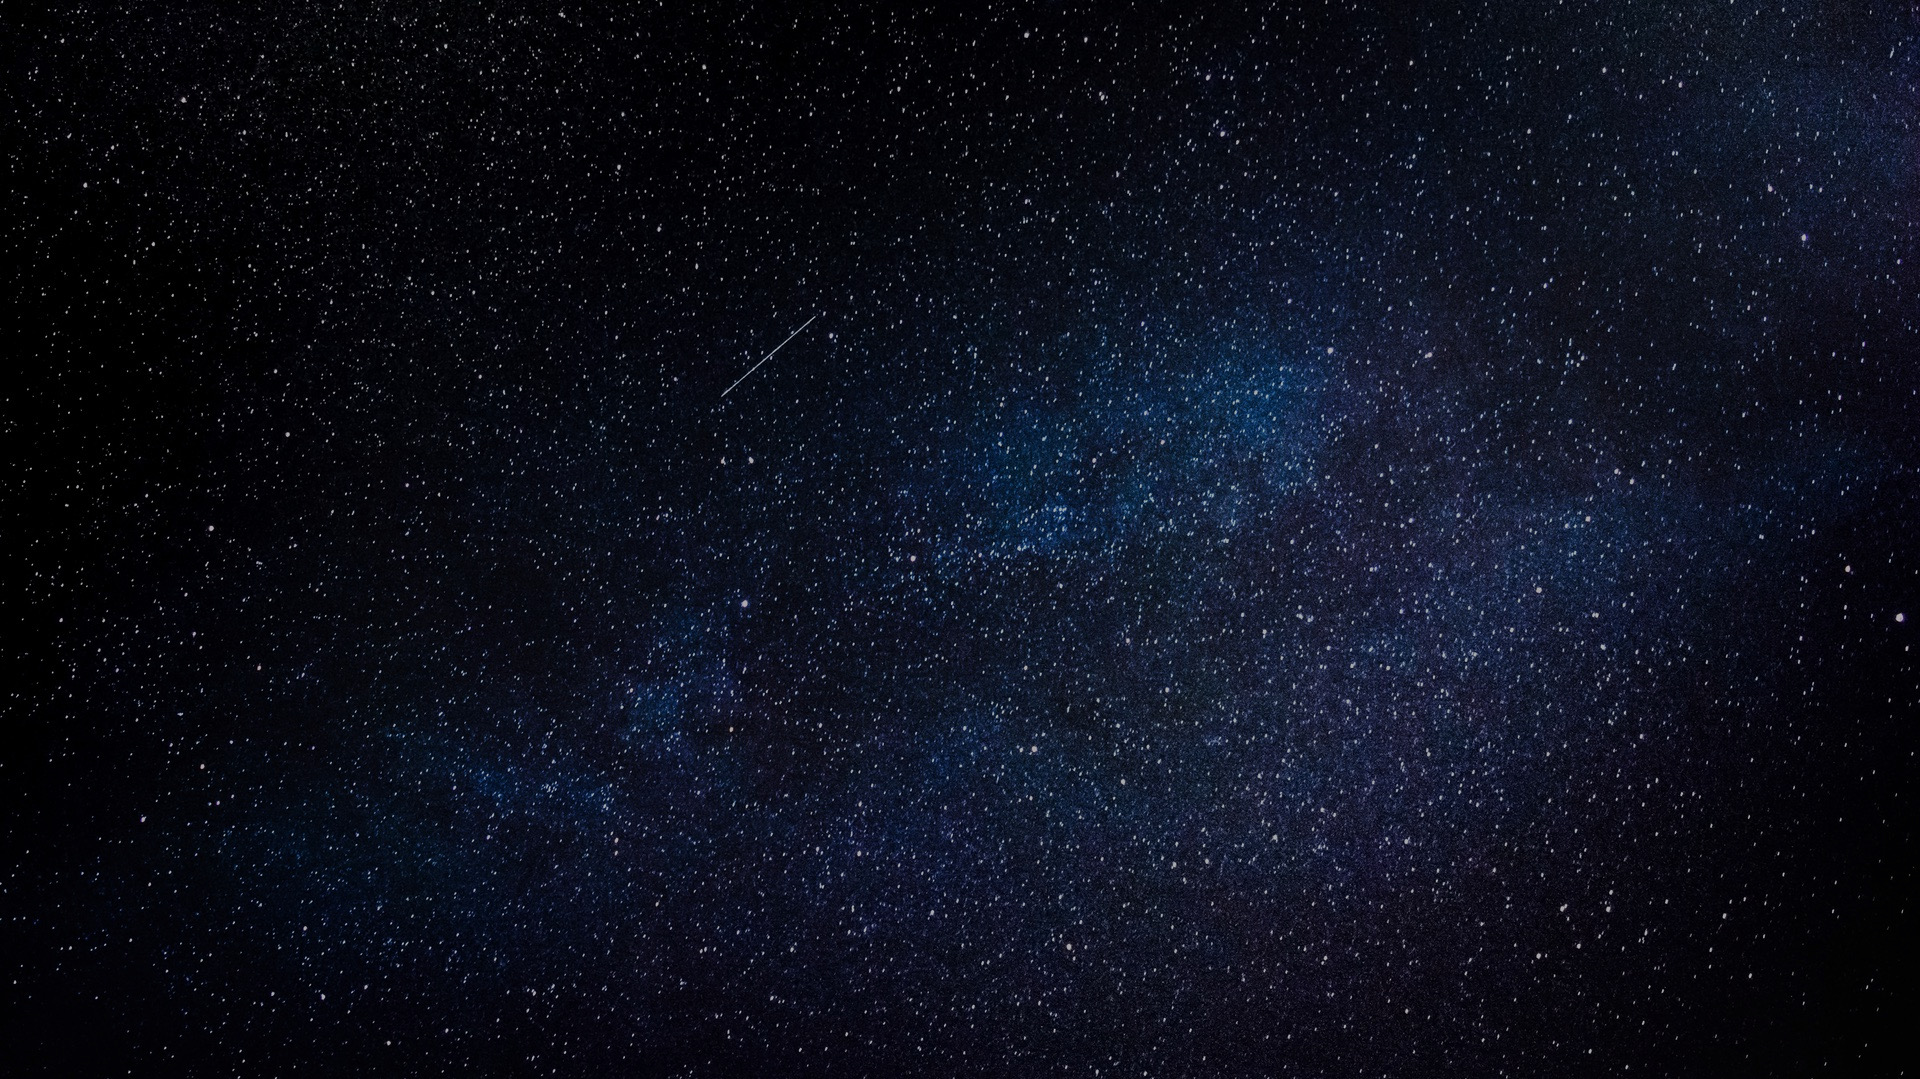
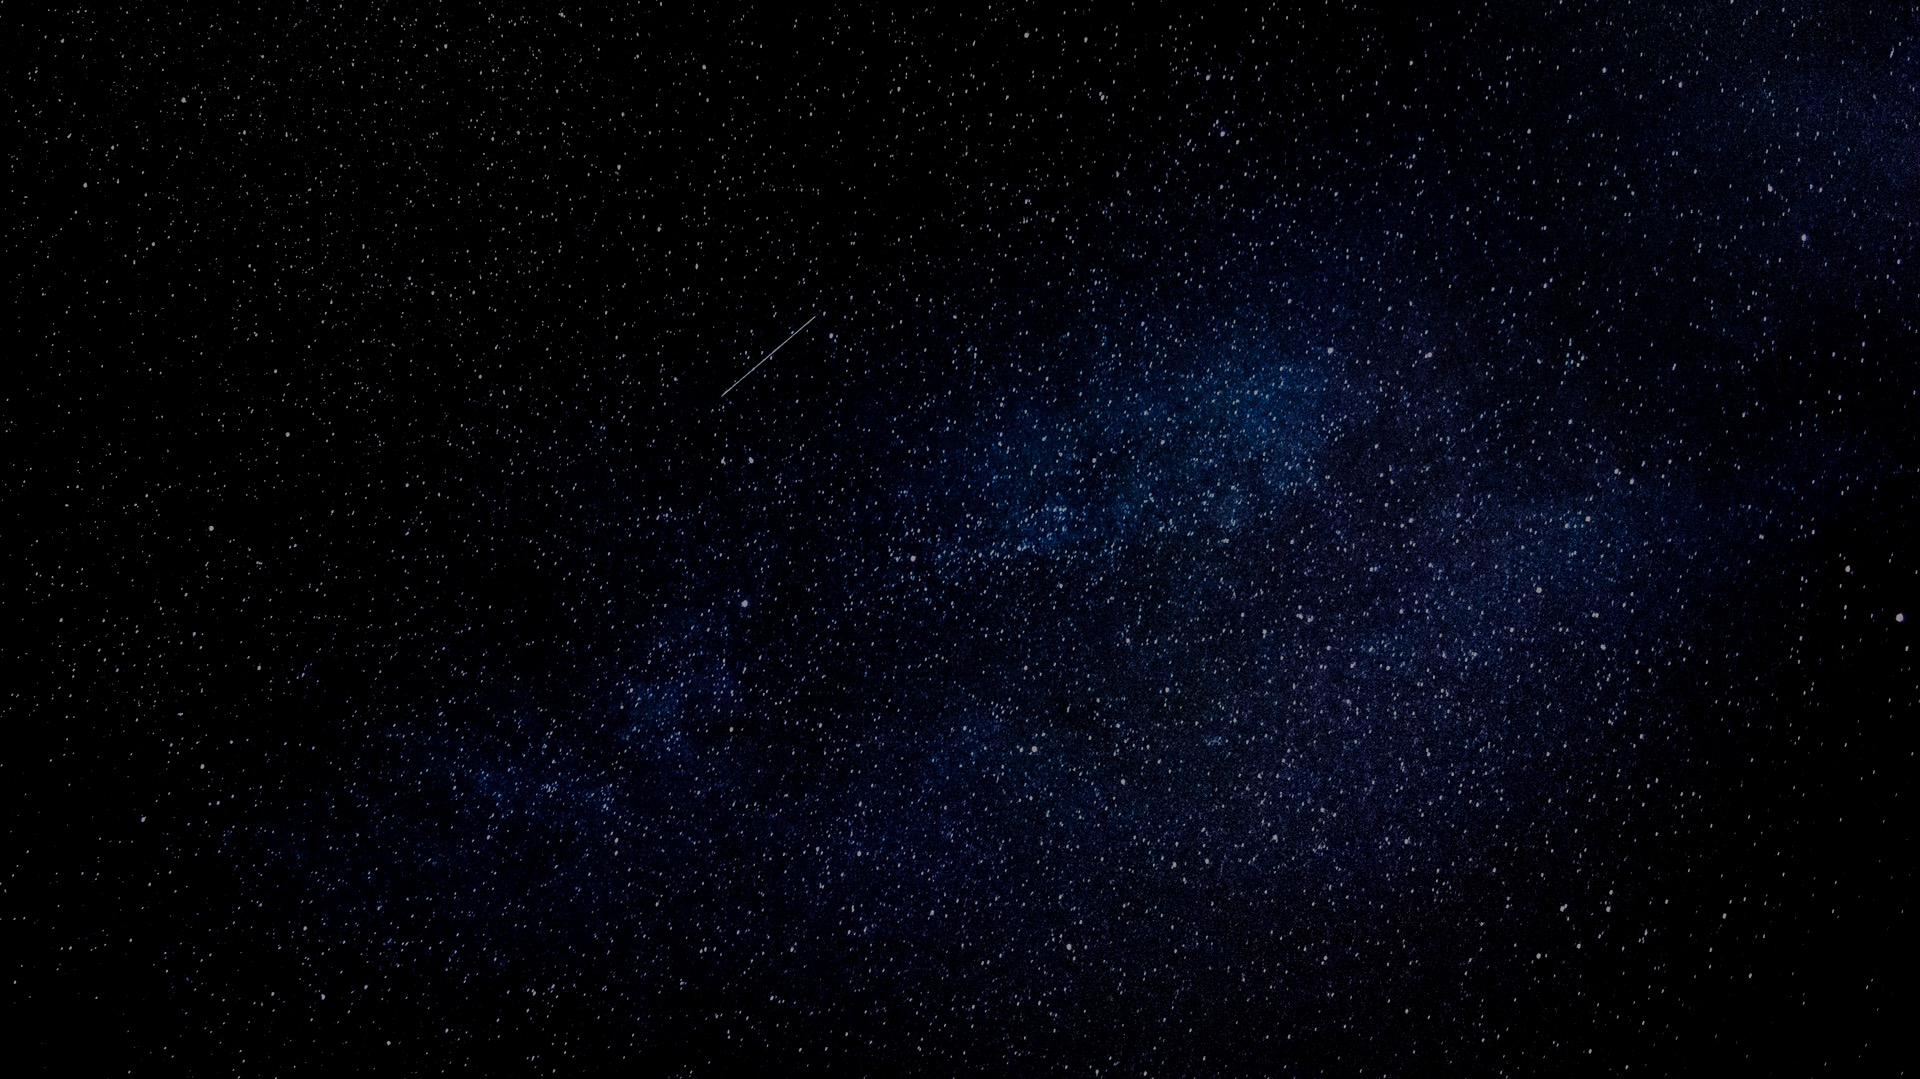
Modif nom du fichier html modif fond suppression fichier superflus

diff --git a/index.html b/index.html
@@ -34,7 +34,7 @@
    </nav> <!-- Fin navbar -->
 
    <div class="container" id="me"> <!-- Container page accueil -->
-      <img id="fondaccueil" src="img/fond2.jpeg" />
+      <img id="fondaccueil" src="img/imghd.jpeg" />
      <div class="row heightmax">
        <div class="col-md-12 heightmax">
          <p class="hello">Bonjour</p>
@@ -47,6 +47,7 @@
 
  <div id="containerb">
   <img id="profil" src="img/profil.jpg" alt="Photo de Florian Marcin" />
+  <h3>Mon histoire :</h3>
   <p class="txtprofil">
     Passionné depuis toujours par l'informatique et la programmation, je me suis dirigé vers une formation de Développeur Web/Mobile à Pop School Lens, ce qui m’a permis d’apprendre la programmation et la méthodologie à mettre en place pour effectuer dans les meilleures conditions un site web ou une application mobile.
   </p>

diff --git a/style/cv3.css b/style/cv3.css
@@ -146,7 +146,7 @@ a, a:hover, a:focus {
 
 #containerb {
   height: 100%;
-  background-image: url("../img/fond5.jpeg");
+  background-color: black;
   text-align: center;
   color: white;
   font-family: 'PT Sans Narrow', sans-serif;
@@ -156,10 +156,16 @@ a, a:hover, a:focus {
 .txtprofil {
   width: 50%;
   margin: 0 auto;
-  font-size: 26px;
-  margin-top: 50px;
+  font-size: 24px;
+  margin-top: 20px;
+  height: 50%;
+  color: white;
 }
 
+h3 {
+  color: #16B84E;
+  font-weight: bold;
+}
 @media screen and (max-width: 767px)
 {
   .txtprofil {
